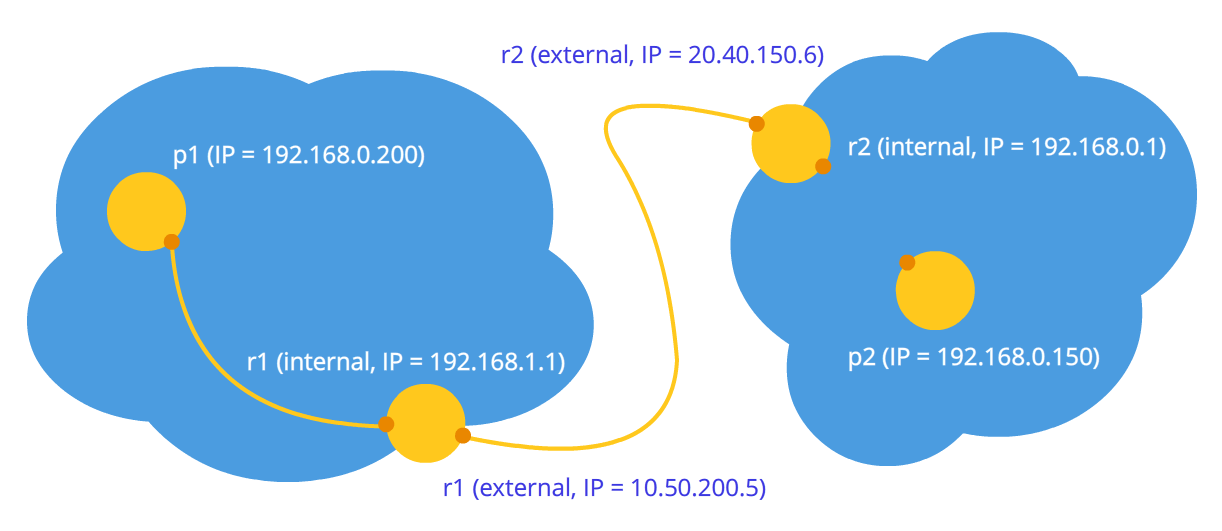
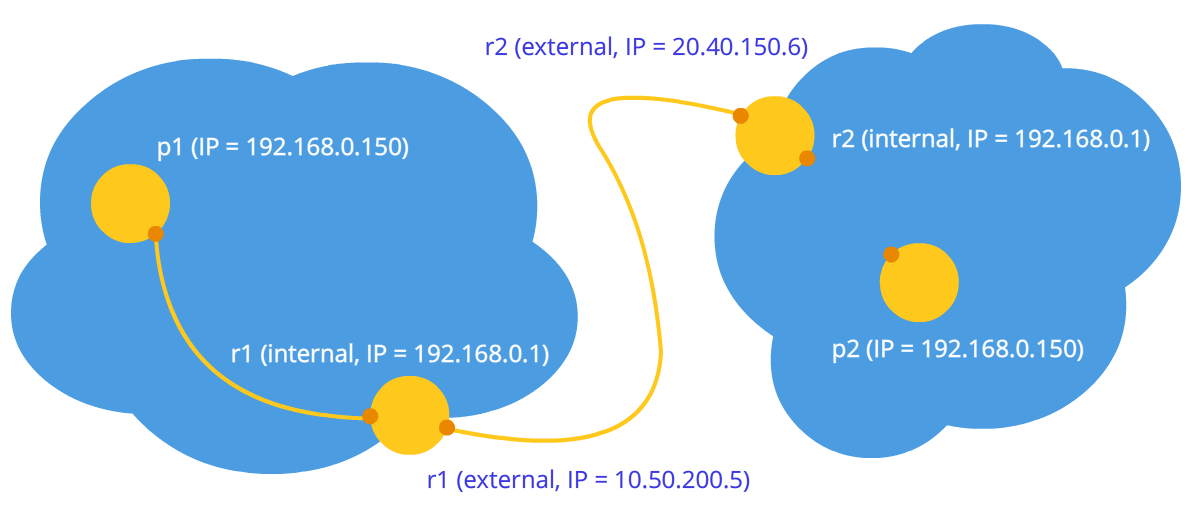
WebRTC: fix figures issues

diff --git a/_posts/2015-10-31-webrtc-in-plain-russian.md b/_posts/2015-10-31-webrtc-in-plain-russian.md
@@ -7,8 +7,8 @@ tags: [webrtc, p2p, turn, stun, ice]
 keywords: "webrtc, p2p, turn, stun, ice"
 author: kupec
 ---
-Эта статья расскажет вам основы **WebRTC**.
 
+Эта статья расскажет вам основы **WebRTC**.
 <!--more-->
 
 # WebRTC #
@@ -54,14 +54,14 @@ author: kupec
 	2. Предложение начать видео-передачу данных (<kbd>createOffer</kbd>)
 	3. Получение своего **SDP** объекта и передача его через сигнальный механизм (**SDP**)
 	4. Получение своих **Ice candidate** объектов и передача их через сигнальный механизм (**Ice candidate**)
-	5. Получение удаленного(чужого) медиа потока и отображение его на экране(<kbd>onAddStream</kbd>)
+	5. Получение удаленного (чужого) медиа потока и отображение его на экране (<kbd>onAddStream</kbd>)
 
 - Ожидающий звонка (**callee**):
 	1. Получение локального (своего) медиа потока и установка его для передачи (<kbd>getUserMediaStream</kbd>)
 	2. Получение предложения начать видео-передачу данных и создание ответа (<kbd>createAnswer</kbd>)
 	3. Получение своего **SDP** объекта и передача его через сигнальный механизм (**SDP**)
 	4. Получение своих **Ice candidate** объектов и передача их через сигнальный механизм (**Ice candidate**)
-	5. Получение удаленного(чужого) медиа потока и отображение его на экране (<kbd>onAddStream</kbd>)
+	5. Получение удаленного (чужого) медиа потока и отображение его на экране (<kbd>onAddStream</kbd>)
 
 Отличие лишь во втором пункте.
 
@@ -69,7 +69,7 @@ author: kupec
 
 Мысленно этап **createOffer** или **createAnswer** следует соединить с этапами передачи **SDP** и **Ice candidate** объектов.
 
-Далее будут рассмотрены некоторые сущности подробнее, а именно – медиапоток (**MediaStream**), дескриптор сессии (**SDP**) и кандидаты(**Ice candidate**).
+Далее будут рассмотрены некоторые сущности подробнее, а именно – медиапоток (**MediaStream**), дескриптор сессии (**SDP**) и кандидаты (**Ice candidate**).
 
 ## Основные сущности ##
 
@@ -77,21 +77,21 @@ author: kupec
 
 Основной сущностью является медиа поток, то есть поток видео и аудио данных, картинка и звук. Медиа потоки бывают двух типов – локальные и удаленные. Локальный получает данные от устройств входа (камера, микрофон), а удаленный по сети. Таким образом у каждого узла есть и локальный, и удаленный поток. В **WebRTC** для потоков существует интерфейс **MediaStream** и также существует подинтерфейс **LocalMediaStream** специально для локального потока. В **JavaScript** можно столкнуться только с первым, а если использовать **libjingle**, то можно столкнуться и со вторым.
 
-В **WebRTC** существует довольно запутанная иерархия внутри потока. Каждый поток может состоять из нескольких медиа дорожек (**MediaTrack**), которые в свою очередь могут состоять из нескольких медиа каналов(**MediaChannel**). Да и самих медиа потоков может быть тоже несколько.
+В **WebRTC** существует довольно запутанная иерархия внутри потока. Каждый поток может состоять из нескольких медиа дорожек (**MediaTrack**), которые в свою очередь могут состоять из нескольких медиа каналов (**MediaChannel**). Да и самих медиа потоков может быть тоже несколько.
 
-Рассмотрим все по порядку. Для этого будем держать в уме некоторый пример. Допустим, что мы хотим передавать не только видео себя, но и видео нашего стола, на котором лежит листок бумаги, на котором мы собираемся что-то писать. Нам понадобится два видео (мы + стол) и одно аудио (мы). Ясно, что мы и стол стоит разделить на разные потоки, потому что эти данные, наверное, слабо зависят друг от друга. Поэтому у нас будет два **MediaStream**'a – один для нас и один для стола. Первый будет содержать и видео, и аудио данные, а второй – только видео (см. Рисунок 4).
+Рассмотрим все по порядку. Для этого будем держать в уме некоторый пример. Допустим, что мы хотим передавать не только видео себя, но и видео нашего стола, на котором лежит листок бумаги, на котором мы собираемся что-то писать. Нам понадобится два видео (мы + стол) и одно аудио (мы). Ясно, что мы и стол стоит разделить на разные потоки, потому что эти данные, наверное, слабо зависят друг от друга. Поэтому у нас будет два **MediaStream**'a – один для нас и один для стола. Первый будет содержать и видео, и аудио данные, а второй – только видео (Рисунок 4).
 
 ![](/assets/posts/webrtc-in-plain-russian/mediastream1.png)
 Рисунок 4: Два различных медиа потока. Один для нас, один для нашего стола
 
-Сразу ясно, что медиа поток как минимум должен включать в себя возможность содержать данные разных типов — видео и аудио. Это учтено в технологии и поэтому каждый тип данных реализуется через медиа дорожку **MediaTrack**. У медиа дорожки есть специальное свойство **kind**, которое и определяет, что перед нами – видео или аудио (см. Рисунок 5)
+Сразу ясно, что медиа поток как минимум должен включать в себя возможность содержать данные разных типов — видео и аудио. Это учтено в технологии и поэтому каждый тип данных реализуется через медиа дорожку **MediaTrack**. У медиа дорожки есть специальное свойство **kind**, которое и определяет, что перед нами – видео или аудио (Рисунок 5)
 
 ![](/assets/posts/webrtc-in-plain-russian/mediastream2.png)
 Рисунок 5: Медиа потоки состоят из медиа дорожек
 
 Как будет всё происходить в программе? Мы создадим два медиа потока. Потом создадим две видео дорожки и одну аудио дорожку. Получим доступ к камерам и микрофону. Укажем каждой дорожке какое устройство использовать. Добавим видео и аудио дорожку в первый медиа поток и видео дорожку от другой камеры во второй медиа поток.
 
-Но как мы различим медиа потоки на другом конце соединения? Для этого каждый медиа поток имеет свойство **label** – метка потока, его название (см. Рисунок 6). Такое же свойство имеют и медиа дорожки. Хотя на первый взгляд кажется, что видео от звука можно отличить и другими способами.
+Но как мы различим медиа потоки на другом конце соединения? Для этого каждый медиа поток имеет свойство **label** – метка потока, его название (Рисунок 6). Такое же свойство имеют и медиа дорожки. Хотя на первый взгляд кажется, что видео от звука можно отличить и другими способами.
 
 ![](/assets/posts/webrtc-in-plain-russian/mediastream3.png)
 Рисунок 6: Медиа потоки и дорожки идентифицируются метками
@@ -126,7 +126,7 @@ author: kupec
 
 Так как в **WebRTC** есть возможность редактирования **SDP** объекта, то после получения локального дескриптора его нужно установить. Это может показаться немного странным, что нужно передавать **WebRTC** то, что она сама нам дала, но таков протокол. При получении удаленного дескриптора его нужно тоже установить. Поэтому Вы должны на одном узле установить два дескриптора – свой и чужой (то есть локальный и удаленный).
 
-После такого *рукопожатия* узлы знают о пожеланиях друг друга. Например, если узел **1** поддерживает кодеки **A** и **B**, а узел **2** поддерживает кодеки **B** и **C**, то, так как каждый узел знает свой и чужой дескрипторы, оба узла выберут кодек **B** (см. Рисунок 7). Логика соединения теперь установлена, и можно передавать медиа потоки, но есть другая проблема – узлы по-прежнему связаны лишь сигнальным механизмом.
+После такого *рукопожатия* узлы знают о пожеланиях друг друга. Например, если узел **1** поддерживает кодеки **A** и **B**, а узел **2** поддерживает кодеки **B** и **C**, то, так как каждый узел знает свой и чужой дескрипторы, оба узла выберут кодек **B** (Рисунок 7). Логика соединения теперь установлена, и можно передавать медиа потоки, но есть другая проблема – узлы по-прежнему связаны лишь сигнальным механизмом.
 
 ![](/assets/posts/webrtc-in-plain-russian/sdp_1.png)
 ![](/assets/posts/webrtc-in-plain-russian/sdp_2.png)
@@ -140,7 +140,7 @@ author: kupec
 
 Итак, соединение уже установлено (логическое соединение), но пока нет пути, по которому узлы сети могут передавать данные. Здесь не всё так просто, но начнем с простого. Пусть узлы находятся в одной подсети. Как мы уже знаем, они могут легко соединяться друг с другом по своим внутренним **IP** адресам (или быть может, по каким-то другим, если используется не **TCP/IP**).
 
-Через некоторые **callback**'и **WebRTC** сообщает нам **Ice candidate** объекты. Они тоже приходят в текстовой форме и также, как с дескрипторами сессии, их нужно просто переслать через сигнальный механизм. Если дескриптор сессии содержал информацию о наших установках на уровне камеры и микрофона, то кандидаты содержат информацию о нашем расположении в сети. Передайте их другому узлу, и тот сможет физически соединиться с нами, а так как у него уже есть и дескриптор сессии, то и логически сможет соединиться и данные «потекут». Если он не забудет отправить нам и свой объект кандидата, то есть информацию о том, где находится он сам в сети, то и мы сможем с ним соединиться. Заметим здесь еще одно отличие от классического клиент-серверного взаимодействия. Общение с HTTP сервером происходит по схеме запрос-ответ, клиент отправляет данные на сервер, тот обрабатывает их и шлет по *адресу, указанному в пакете запроса*. В **WebRTC** такого не происходит, так как медиапотоки текут в разные стороны <u>независимо</u>. Поэтому необходимо знать <u>два адреса</u>, в то время как в клиент-серверном взаимодействии достаточно знания *одного* -- адреса сервера. 
+Через некоторые **callback**'и **WebRTC** сообщает нам **Ice candidate** объекты. Они тоже приходят в текстовой форме и также, как с дескрипторами сессии, их нужно просто переслать через сигнальный механизм. Если дескриптор сессии содержал информацию о наших установках на уровне камеры и микрофона, то кандидаты содержат информацию о нашем расположении в сети. Передайте их другому узлу, и тот сможет физически соединиться с нами, а так как у него уже есть и дескриптор сессии, то и логически сможет соединиться и данные «потекут». Если он не забудет отправить нам и свой объект кандидата, то есть информацию о том, где находится он сам в сети, то и мы сможем с ним соединиться. Заметим здесь еще одно отличие от классического клиент-серверного взаимодействия. Общение с HTTP сервером происходит по схеме запрос-ответ, клиент отправляет данные на сервер, тот обрабатывает их и шлет по *адресу, указанному в пакете запроса*. В **WebRTC** такого не происходит, так как медиапотоки текут в разные стороны <u>независимо</u>. Поэтому необходимо знать <u>два адреса</u>, в то время как в клиент-серверном взаимодействии достаточно знания *одного* -- адреса сервера.
 
 Различие от дескрипторов сессии состоит в том, что устанавливать нужно только удаленных кандидатов. Редактирование здесь запрещено и не может принести никакой пользы. В некоторых реализациях **WebRTC** кандидатов необходимо устанавливать только после установки дескрипторов сессии[^cand_after_answer].
 
@@ -148,22 +148,23 @@ author: kupec
 
 А почему дескриптор сессии был один, а кандидатов может быть много? Потому что расположение в сети может определяться не только своим внутренним **IP** адресом, но также и внешним адресом маршрутизатора, и не обязательно одного, а также адресами **TURN** серверов. Остаток параграфа будет посвящен подробному рассмотрению кандидатов и тому, как соединять узлы из разных подсетей.
 
-Итак, два узла находятся в одной подсети. Как их идентифицировать? С помощью **IP** адресов. Больше никак. Правда, еще можно использовать разные транспорты (**TCP** и **UDP**) и разные порты. Это и есть та информация, которая содержится в объекте кандидата – **IP**, **PORT**, **TRANSPORT** и какая-то другая. Пусть, для примера, используется **UDP** транспорт и **531** порт.
+Итак, два узла находятся в одной подсети (Рисунок 8). Как их идентифицировать? С помощью **IP** адресов. Больше никак. Правда, еще можно использовать разные транспорты (**TCP** и **UDP**) и разные порты. Это и есть та информация, которая содержится в объекте кандидата – **IP**, **PORT**, **TRANSPORT** и какая-то другая. Пусть, для примера, используется **UDP** транспорт и **531** порт.
 
 ![](/assets/posts/webrtc-in-plain-russian/net1_p1_p2.png)
+Рисунок 8: Два узла находятся в одной подсети
 
 Тогда, если мы находимся в узле **p1**, то **WebRTC** передаст нам такой объект кандидата — **[10.50.200.5, 531, udp]**. Здесь приводится не точный формат, а лишь схема. Если мы в узле **p2**, то кандидат таков – **[10.50.150.3, 531, udp]**. Через сигнальный механизм **p1** получит кандидата **p2** (то есть расположение узла **p2**, а именно его **IP** и **PORT**). После чего **p1** может соединиться с **p2** напрямую. Более правильно, **p1** будет посылать данные на адрес **10.50.150.3:531** в надежде, что они дойдут до **p2**. Не важно, принадлежит ли этот адрес узлу **p2** или какому-то посреднику. Важно лишь то, что через этот адрес данные будут посылаться и могут достигнуть **p2**.
 
 Пока узлы в одной подсети – все просто и легко – каждый узел имеет только один объект кандидата (всегда имеется в виду свой, то есть свое расположение в сети). Но кандидатов станет гораздо больше, когда узлы будут находится в *разных* подсетях.
 
-Перейдем к более сложному случаю. Один узел будет находиться за роутером, а второй узел будет находиться в одной подсети с этим роутером (Рисунок 8).
+Перейдем к более сложному случаю. Один узел будет находиться за роутером, а второй узел будет находиться в одной подсети с этим роутером (Рисунок 9).
 
 ![](/assets/posts/webrtc-in-plain-russian/net1_p1_r1_p2.png)
-Рисунок 8: Один узел за роутером, другой нет
+Рисунок 9: Один узел за роутером, другой нет
 
 Этот случай имеет частное решение проблемы, которое мы сейчас и рассмотрим. Роутер содержит таблицу **NAT**. Это специальных механизм, разработанный для того, чтобы узлы внутри подсети роутера смогли обращаться, например, к веб-сайтам. Более точно – могли получать ответ от веб-серверов.
 
-Предположим, что веб-сервер соединен с интернетом напрямую, без роутеров[^internet_is_net]. Пусть это будет узел **p2**. Узел **p1** (веб-клиент) шлет запрос на адрес **10.50.200.10**. Сначала данные попадают на роутер **r1**, а точнее на его *внутренний* интерфейс **192.168.1.1**. После чего, роутер запоминает адрес источника (адрес **p1**) и заносит его в специальную таблицу **NAT**, затем изменяет адрес источника на свой(**p1** **→** **r1**). Далее, по своему *внешнему* интерфейсу роутер пересылает данные непосредственно на веб‑сервер **p2**. Веб-сервер обрабатывает данные, генерирует ответ и отправляет обратно. Отправляет роутеру **r1**, так как именно он стоит в обратном адресе (роутер подменил адрес на свой). Роутер получает данные, смотрит в таблицу **NAT** и пересылает данные узлу **p1**. Роутер выступает здесь как посредник.
+Предположим, что веб-сервер соединен с интернетом напрямую, без роутеров[^internet_is_net]. Пусть это будет узел **p2**. Узел **p1** (веб-клиент) шлет запрос на адрес **10.50.200.10**. Сначала данные попадают на роутер **r1**, а точнее на его *внутренний* интерфейс **192.168.0.1**. После чего, роутер запоминает адрес источника (адрес **p1**) и заносит его в специальную таблицу **NAT**, затем изменяет адрес источника на свой(**p1** **→** **r1**). Далее, по своему *внешнему* интерфейсу роутер пересылает данные непосредственно на веб‑сервер **p2**. Веб-сервер обрабатывает данные, генерирует ответ и отправляет обратно. Отправляет роутеру **r1**, так как именно он стоит в обратном адресе (роутер подменил адрес на свой). Роутер получает данные, смотрит в таблицу **NAT** и пересылает данные узлу **p1**. Роутер выступает здесь как посредник.
 
 [^internet_is_net]: Более точно, вебсервер находится в одной из сетей, которые образуют интернет.
 
